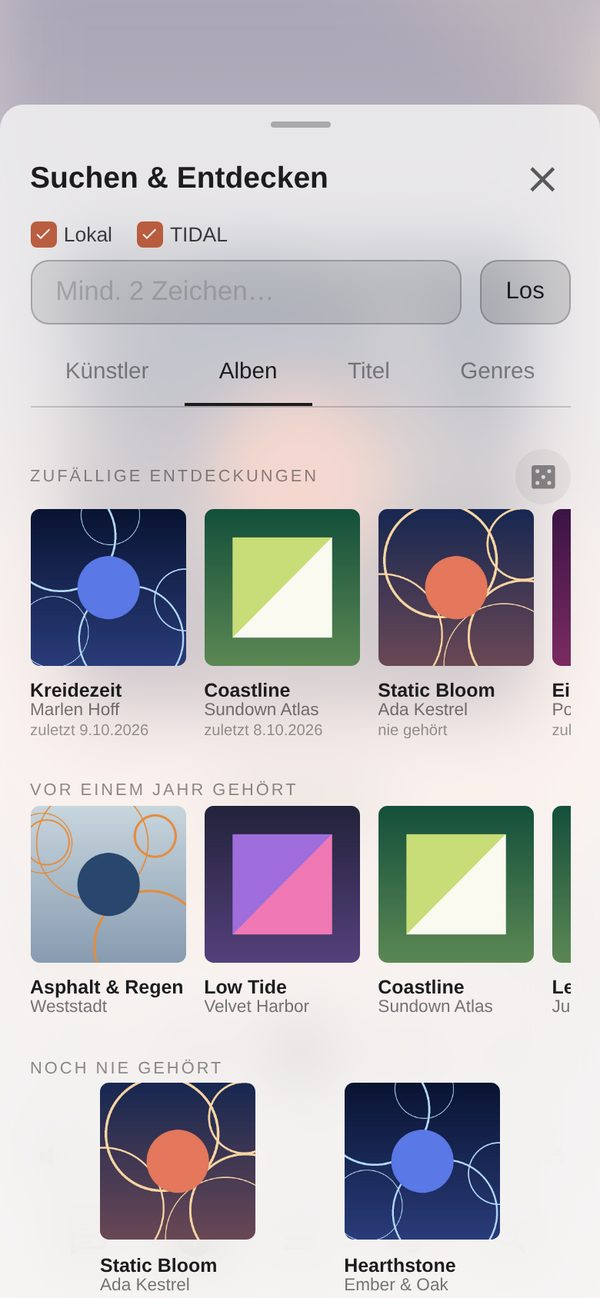
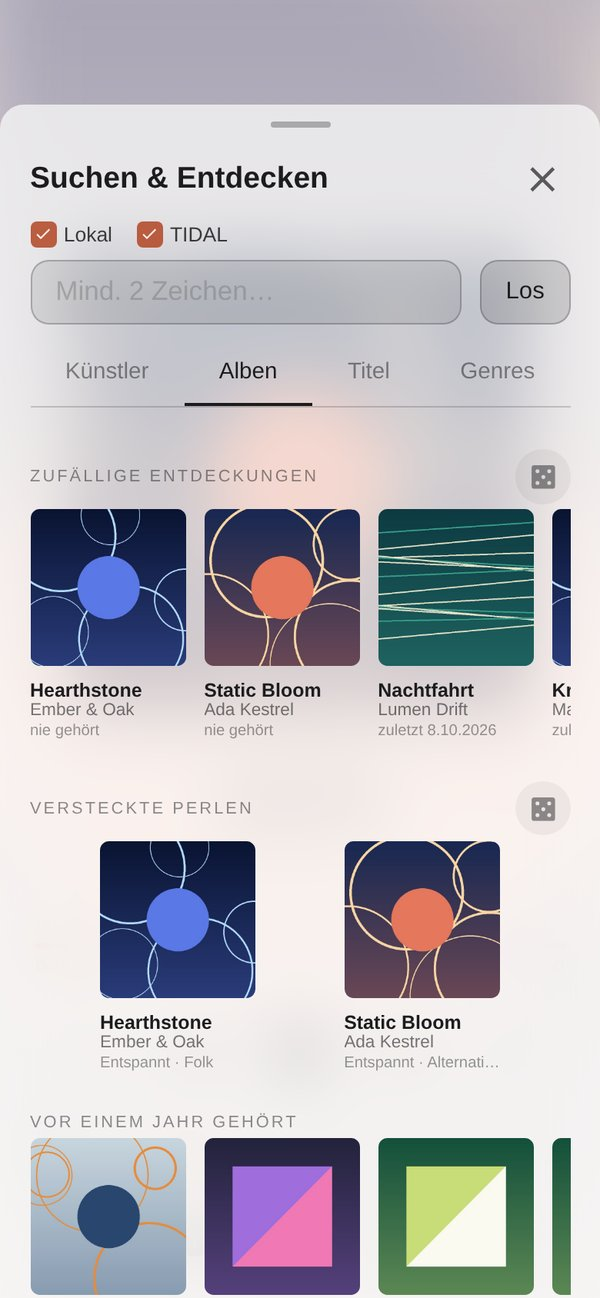
Doku: Werbetext für Xplorio (DE/EN), aktuelle Bilder
- docs/xplorio.md und docs/xplorio_en.md: Vorstellung für Nutzer, aus den READMEs verlinkt
- Neu aufgenommen: Entdecken mit Versteckten Perlen, Warteschlange mit Daumen, Stimmungs-Mix mit „energiegeladen“
- Neu: Albumseite mit Sternen und Daumen; Entdecken-Bilder im Abschnitt Suchen & Entdecken

Claude-Session: https://claude.ai/code/session_01Na5Kco2Gyiu2KCYwDk2Umn

diff --git a/docs/xplorio.md b/docs/xplorio.md
@@ -1,0 +1,115 @@
+# Xplorio: Entdecke deine Musik neu
+
+*Die Musiksammlung, die du schon hast, ist größer als die, die du hörst.*
+
+Irgendwann ist sie da: die Sammlung mit Tausenden Alben, liebevoll zusammengetragen über Jahre. Und trotzdem landest du
+immer wieder bei denselben zwanzig Platten. Nicht, weil der Rest schlechter wäre, sondern weil lange Listen von A bis Z
+keine Lust auf Neues machen.
+
+**Xplorio** ist eine neue Oberfläche für deinen Volumio-Player, gemacht für genau diese Sammlungen. Statt dich durch
+endlose Listen scrollen zu lassen, nimmt sie dich mit auf Entdeckungsreise durch deine eigene Musik.
+
+<p align="center">
+  <img src="bilder/display-ipad.jpg" width="720" alt="Xplorio auf dem iPad: Cover, Albuminfos und mitlaufende Lyrics">
+</p>
+
+## Du weißt, was du hören willst?
+
+Dann tipp es einfach ein. Die Suche findet Künstler, Alben, Titel und Genres in deiner Sammlung und, wenn du möchtest,
+gleich auch bei TIDAL, Qobuz oder HIGHRESAUDIO. Ein Tipp, und es läuft.
+
+## Du bist unschlüssig?
+
+Dann lass das Suchfeld einfach leer und dich inspirieren:
+
+- **Zufällige Entdeckungen** bringen Alben nach oben, die schon lange nicht mehr liefen.
+- **Vor einem Jahr gehört** erinnert dich daran, was dich letzten Herbst begleitet hat.
+- **Früher oft gehört** holt alte Lieblinge zurück, die du fast vergessen hattest.
+- **Noch nie gehört** zeigt, was seit Jahren ungespielt im Regal steht.
+- **Versteckte Perlen** findet Musik, die du kaum kennst, die aber genau zu dem passt, was du liebst. Und Xplorio sagt
+  dir auch, warum: „Wie Lumen Drift“, „Melancholisch · Jazz“ oder „♥ Ungehört“ vom Lieblingskünstler.
+
+Oder tipp auf eine Stimmung, eine Energie, einen Stil oder ein Jahrzehnt: *Verträumt*, *Energiegeladen*, *Soulful*,
+*die 80er*. Du bekommst alle passenden Alben aus deiner Sammlung, und mit einem Tipp auf den Würfel 25 zufällige Titel
+daraus.
+
+<p align="center">
+  <img src="bilder/entdecken.jpg" width="240" alt="Entdecken">
+  <img src="bilder/album.jpg" width="240" alt="Album mit Bewertung">
+</p>
+
+## Du suchst Musik für genau diesen Moment?
+
+Der **Stimmungs-Mix** stellt dir eine Playlist zusammen: Wähle eine oder mehrere Stimmungen, wie viel Energie es sein
+darf, welche Genres und wie mutig der Mix sein soll, von deinen Favoriten bis zu den versteckten Perlen. Bevor etwas
+spielt, siehst du jeden Titel mit dem Grund, warum er dabei ist. Gefällt dir einer nicht, fliegt er raus.
+
+Und wenn der Mix zu Ende ist? Mit dem optionalen **AutoDJ** geht die Reise einfach weiter, mit Musik, die zu dem passt,
+was gerade lief.
+
+<p align="center">
+  <img src="bilder/mix-auswahl.jpg" width="240" alt="Stimmungs-Mix: Auswahl">
+  <img src="bilder/mix-vorschau.jpg" width="240" alt="Stimmungs-Mix: Vorschau">
+</p>
+
+## Du magst, was gerade läuft?
+
+Dann fang genau dort an. Tipp auf den Künstler und sieh, was von ihm in deiner Sammlung liegt. Schau dir ähnliche
+Künstler an, die du auch besitzt. Lies, wer an dem Album mitgewirkt hat und was es darüber zu wissen gibt. Folge deinem
+eigenen Pfad durch die Sammlung, bis zum nächsten Album, das dich packt. Und wenn du dich nicht entscheiden kannst:
+Bei Künstlern, Genres, Stimmungen und Jahrzehnten spielt der Würfel 25 Titel daraus.
+
+Dazu laufen die **Lyrics** synchron mit, die Farben passen sich dem Cover an, und ein Abzeichen zeigt dir, in welcher
+Qualität gerade gespielt wird.
+
+<p align="center">
+  <img src="bilder/wiedergabe.jpg" width="200" alt="Wiedergabe">
+  <img src="bilder/lyrics.jpg" width="200" alt="Lyrics">
+  <img src="bilder/info.jpg" width="200" alt="Infos">
+</p>
+
+## Deine Musik, deine Geschichte
+
+Xplorio merkt sich, was du hörst, auf Wunsch auch zusammen mit deinem Last.fm-Verlauf. Daraus entstehen deine
+Ranglisten, Statistiken nach Tageszeit und Wochentag und ein **Jahresrückblick**: Welche Künstler hast du dieses Jahr
+neu entdeckt? Welches Genre hat dich durch den Winter gebracht?
+
+Mit einem Herz für Künstler, Sternen für Alben und dem Daumen für einzelne Titel sagst du Xplorio, was dir gefällt.
+Was du nicht hören willst, taucht in Zufallsmixen nicht mehr auf.
+
+<p align="center">
+  <img src="bilder/statistik.jpg" width="240" alt="Statistik">
+  <img src="bilder/rueckblick.jpg" width="240" alt="Jahresrückblick">
+</p>
+
+## Gute Daten, gute Entdeckungen
+
+Je besser deine Sammlung beschriftet ist, desto mehr hat Xplorio zu erzählen. Deshalb ist ein **Tag-Editor** gleich
+mit dabei: für einzelne Titel, ganze Alben oder alles von einem Künstler, samt Cover-Suche. Der **Bibliotheks-Check**
+findet fehlende Cover, verschiedene Schreibweisen desselben Künstlers und Alben ohne Genre, und führt dich mit einem
+Tipp direkt zur Korrektur.
+
+Und wer noch tiefer gehen will, lässt die Musik auf einem leistungsstarken Rechner anhören: Die mitgelieferte
+**Audio-Analyse** erkennt Energie, Tempo und Stimmung direkt aus dem Klang und macht Stimmungs-Mix und Entdecken noch
+treffsicherer.
+
+## Überall zu Hause
+
+Auf dem Handy in der Hand, auf dem iPad als Bühne neben der Anlage, auf dem Fernseher als reine Anzeige mit Cover und
+Lyrics. Hell oder dunkel, auf Deutsch oder Englisch. Und die gewohnte Volumio-Oberfläche ist immer nur einen Tipp
+entfernt.
+
+<p align="center">
+  <img src="bilder/display-desktop.jpg" width="720" alt="Display-Layout am Desktop">
+</p>
+
+## Ausprobieren
+
+Xplorio läuft auf Volumio, entwickelt auf einem Musical Fidelity MX-Stream, und ist kostenlos und quelloffen.
+Wie du es auf deinen Player bringst, steht in der [Einrichtung](einrichten.md).
+
+**Deine Sammlung wartet. Fang an zu entdecken.**
+
+---
+
+*Alle Bilder zeigen eine erfundene Beispiel-Bibliothek. Künstler, Cover und Texte sind ausgedacht.*

diff --git a/docs/xplorio_en.md b/docs/xplorio_en.md
@@ -1,0 +1,112 @@
+# Xplorio: Rediscover Your Music
+
+*The music collection you already own is bigger than the one you listen to.*
+
+At some point it's there: a collection of thousands of albums, lovingly gathered over the years. And yet you keep
+coming back to the same twenty records. Not because the rest is worse, but because long lists from A to Z don't make
+you curious.
+
+**Xplorio** is a new interface for your Volumio player, made for exactly these collections. Instead of making you
+scroll through endless lists, it takes you on a journey of discovery through your own music.
+
+<p align="center">
+  <img src="bilder/display-ipad.jpg" width="720" alt="Xplorio on the iPad: cover, album info and synced lyrics">
+</p>
+
+## You know what you want to hear?
+
+Just type it. Search finds artists, albums, tracks and genres in your collection and, if you like, on TIDAL, Qobuz or
+HIGHRESAUDIO too. One tap, and it plays.
+
+## Can't decide?
+
+Leave the search field empty and let yourself be inspired:
+
+- **Random Discoveries** brings up albums that haven't played in a long time.
+- **Played a Year Ago** reminds you of what kept you company last autumn.
+- **Once Played a Lot** brings back old favourites you had almost forgotten.
+- **Never Heard** shows what has been sitting unplayed on the shelf for years.
+- **Hidden Gems** finds music you barely know that matches exactly what you love. And Xplorio tells you why:
+  "Like Lumen Drift", "Melancholic · Jazz" or "♥ Unheard" from a favourite artist.
+
+Or tap a mood, an energy level, a style or a decade: *Dreamy*, *High energy*, *Soulful*, *the 80s*. You get all
+matching albums from your collection, and one tap on the dice plays 25 random tracks from them.
+
+<p align="center">
+  <img src="bilder/entdecken.jpg" width="240" alt="Discover">
+  <img src="bilder/album.jpg" width="240" alt="Album with rating">
+</p>
+
+## Looking for music for exactly this moment?
+
+The **Mood Mix** puts together a playlist for you: pick one or more moods, how much energy you want, which genres and
+how adventurous the mix should be, from your favourites to the hidden gems. Before anything plays, you see every track
+with the reason it was picked. Don't like one? Out it goes.
+
+And when the mix is over? With the optional **AutoDJ**, the journey simply continues, with music that fits what was
+just playing.
+
+<p align="center">
+  <img src="bilder/mix-auswahl.jpg" width="240" alt="Mood Mix: selection">
+  <img src="bilder/mix-vorschau.jpg" width="240" alt="Mood Mix: preview">
+</p>
+
+## Like what's playing right now?
+
+Then start right there. Tap the artist and see what of theirs is in your collection. Look at similar artists you also
+own. Read who played on the album and what there is to know about it. Follow your own path through the collection to
+the next album that grabs you. And if you can't decide: for artists, genres, moods and decades, the dice plays 25
+tracks from them.
+
+Meanwhile the **lyrics** scroll along in sync, the colours adapt to the cover, and a badge shows you the quality of
+what's playing.
+
+<p align="center">
+  <img src="bilder/wiedergabe.jpg" width="200" alt="Now playing">
+  <img src="bilder/lyrics.jpg" width="200" alt="Lyrics">
+  <img src="bilder/info.jpg" width="200" alt="Info">
+</p>
+
+## Your music, your story
+
+Xplorio remembers what you listen to, and can combine it with your Last.fm history. From that come your charts,
+statistics by time of day and weekday, and a **year in review**: which artists did you discover this year? Which genre
+got you through the winter?
+
+With a heart for artists, stars for albums and a thumb for single tracks, you tell Xplorio what you like. What you
+don't want to hear no longer shows up in random mixes.
+
+<p align="center">
+  <img src="bilder/statistik.jpg" width="240" alt="Statistics">
+  <img src="bilder/rueckblick.jpg" width="240" alt="Year in review">
+</p>
+
+## Good data, good discoveries
+
+The better your collection is tagged, the more Xplorio has to tell. That's why a **tag editor** is built in: for
+single tracks, whole albums or everything by an artist, including cover search. The **library check** finds missing
+covers, different spellings of the same artist and albums without a genre, and takes you straight to the fix with one
+tap.
+
+And if you want to go deeper, let a more powerful computer listen to your music: the included **audio analysis**
+detects energy, tempo and mood straight from the sound and makes the Mood Mix and Discover even more accurate.
+
+## At home everywhere
+
+On your phone in your hand, on the iPad as a stage next to the hi-fi, on the TV as a pure display with cover and
+lyrics. Light or dark, in English or German. And the familiar Volumio interface is always just a tap away.
+
+<p align="center">
+  <img src="bilder/display-desktop.jpg" width="720" alt="Display layout on the desktop">
+</p>
+
+## Try it
+
+Xplorio runs on Volumio, was developed on a Musical Fidelity MX-Stream, and is free and open source.
+How to get it onto your player is described in the [setup guide](setup.md).
+
+**Your collection is waiting. Start exploring.**
+
+---
+
+*All images show a fictional sample library. Artists, covers and texts are made up.*

diff --git a/README.md b/README.md
@@ -2,7 +2,7 @@
 
 **Explorer für Volumio**: die eigene Musiksammlung (wieder) entdecken.
 
-[English version](README_EN.md)
+[English version](README_EN.md) · [Was ist Xplorio?](docs/xplorio.md)
 
 Xplorio ist eine eigene Weboberfläche für Volumio 2 (gebaut für einen Musical Fidelity MX-Stream, Raspberry-Pi-CM3), läuft ohne Build-Schritt
 direkt im Browser. Auf Volumio 4 läuft sie ebenfalls (Unterschiede siehe [Einrichtung](docs/einrichten.md#volumio-4)). Auf Volumio 3 vermutlich auch, wurde aber nicht getestet. 
@@ -53,6 +53,11 @@ nicht gehört, noch nie gehört und früher oft gehört. Darunter führen Knöpf
 Bewertungen: Herz für Künstler, ein bis fünf Sterne für Alben, Daumen hoch oder runter für Titel (Daumen hoch ist der Volumio-Favorit). Bei Webradio holt die App ein Cover
 zum laufenden Titel und zeigt Senderlogos in der Senderliste.
 
+<p>
+  <img src="docs/bilder/entdecken.jpg" width="200" alt="Entdecken in der Suche">
+  <img src="docs/bilder/album.jpg" width="200" alt="Albumseite mit Sternen und Daumen">
+</p>
+
 ### Stimmungs-Mix
 Eigener erster Reiter neben Playlisten und Radio (Playlisten-Taste). Stimmung wählen (mehrere möglich), Energie von ruhig bis energiegeladen eingrenzen, auf Genres beschränken und unter „Feinabstimmung“ Stile, Länge
 und Entdeckungsgrad festlegen: Favoriten, ausgewogen oder versteckte Perlen, je nach eigenem Verlauf. „Mix erstellen“
@@ -62,7 +67,6 @@ nichts spielt; die Musikdateien bleiben dabei unverändert. Optional hört Essen
 (`tools/essentia/`): Dann kommen Energie und Stimmung aus dem Audio, und ein Tempo-Regler (BPM) kommt dazu.
 
 <p>
-  <img src="docs/bilder/entdecken.jpg" width="200" alt="Entdecken in der Suche">
   <img src="docs/bilder/mix-auswahl.jpg" width="200" alt="Stimmungs-Mix: Auswahl">
   <img src="docs/bilder/mix-vorschau.jpg" width="200" alt="Stimmungs-Mix: Vorschau">
 </p>

diff --git a/README_EN.md b/README_EN.md
@@ -2,7 +2,7 @@
 
 **Explorer for Volumio**: (re)discover your own music collection.
 
-[Deutsche Fassung](README.md)
+[Deutsche Fassung](README.md) · [What is Xplorio?](docs/xplorio_en.md)
 
 Xplorio is a custom web interface for Volumio 2 (built for a Musical Fidelity MX-Stream, Raspberry Pi CM3), running directly in the browser without a build step.
 It also runs on Volumio 4 (for differences, see [Setup](docs/setup.md#volumio-4)). In addition to the files that run on the player, the repository only contains tests (`tests/`) and the setup documentation;
@@ -56,6 +56,11 @@ while, never heard, and once played a lot. Below them, buttons lead on by mood, 
 Ratings: a heart for artists, one to five stars for albums, thumbs up or down for tracks (thumbs up is the Volumio favourite). For web radio, the app retrieves cover art for the currently playing
 track and displays station logos in the station list.
 
+<p>
+  <img src="docs/bilder/entdecken.jpg" width="200" alt="discover in search">
+  <img src="docs/bilder/album.jpg" width="200" alt="album page with stars and thumbs">
+</p>
+
 ### Mood Mix
 
 A dedicated first tab next to Playlists and Radio (playlist button). Select one or more moods, narrow down the energy level
@@ -68,7 +73,6 @@ remain unchanged. Optionally, Essentia on the Mac can analyze each track directl
 energy and mood are derived from the audio, and a tempo control (BPM) is added.
 
 <p>
-  <img src="docs/bilder/entdecken.jpg" width="200" alt="discover in search">
   <img src="docs/bilder/mix-auswahl.jpg" width="200" alt="Mood-Mix: Selection">
   <img src="docs/bilder/mix-vorschau.jpg" width="200" alt="Mood-Mix: Preview">
 </p>
